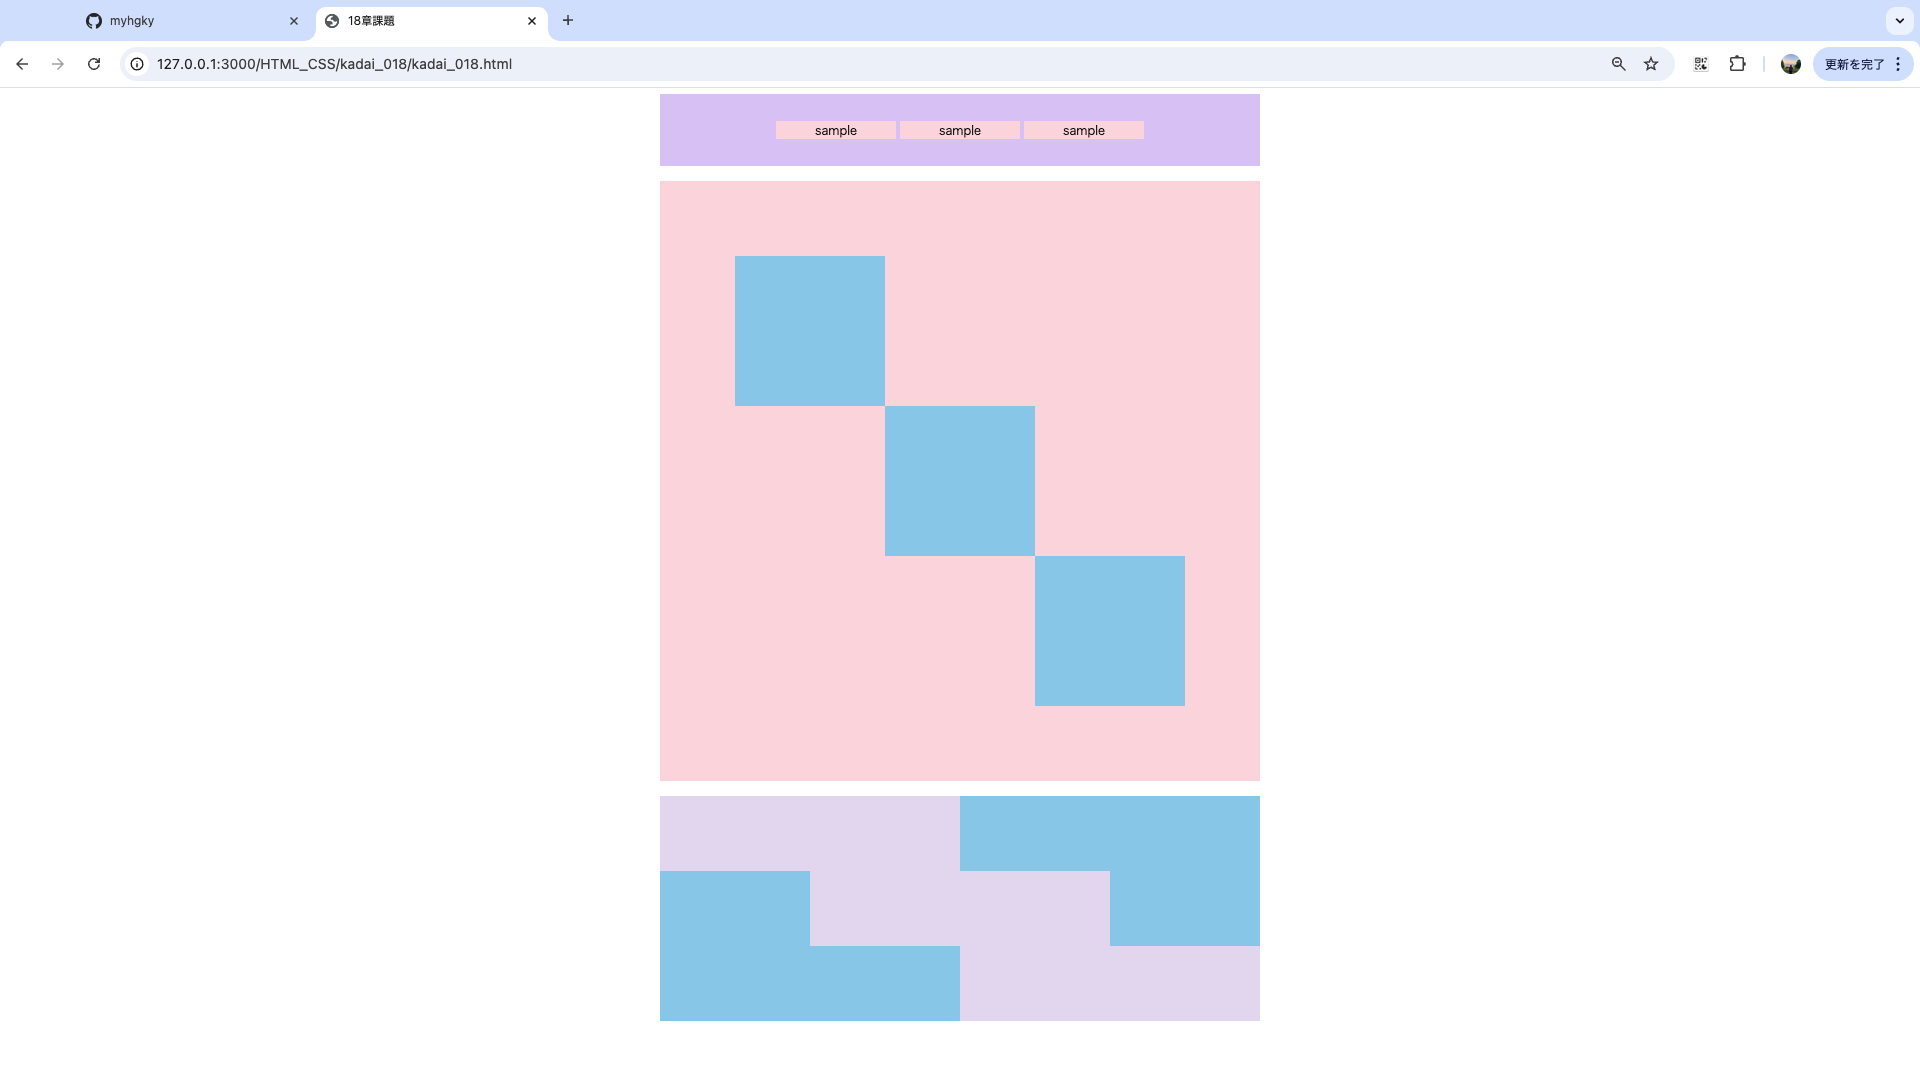
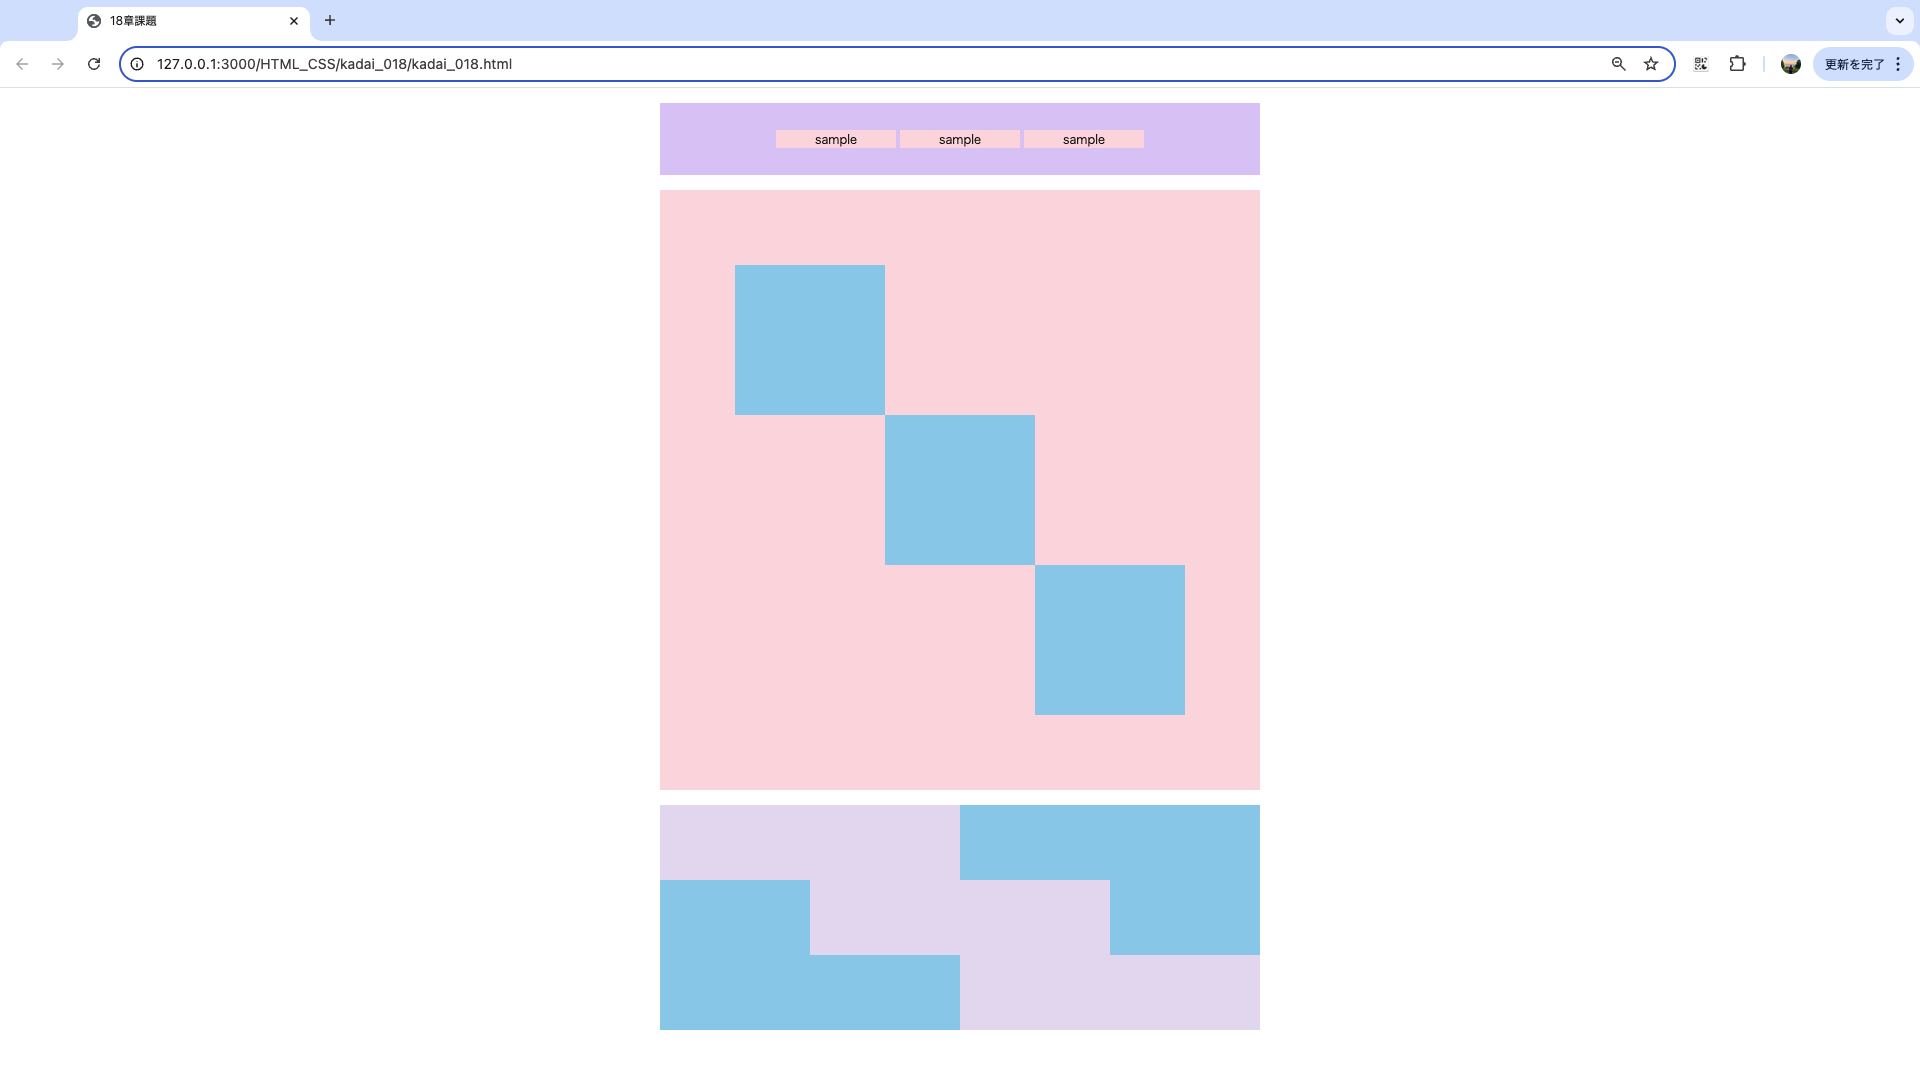
Add files via upload

diff --git a/kadai_018/style.css b/kadai_018/style.css
@@ -2,8 +2,7 @@
   width: 800px;
   background-color: #dcc9f4;
   padding: 20px 0px;
-  margin-left: auto;
-  margin-right: auto;
+  margin: 20px auto 20px auto;
   text-align: center;
 }
 #top p {
@@ -45,8 +44,7 @@
 #bottom {
   width: 800px;
   height: 300px;
-  margin-left: auto;
-  margin-right: auto;
+  margin: 20px auto 20px auto;
   background-color: #87ceeb;
 }
 #bottom > div {
